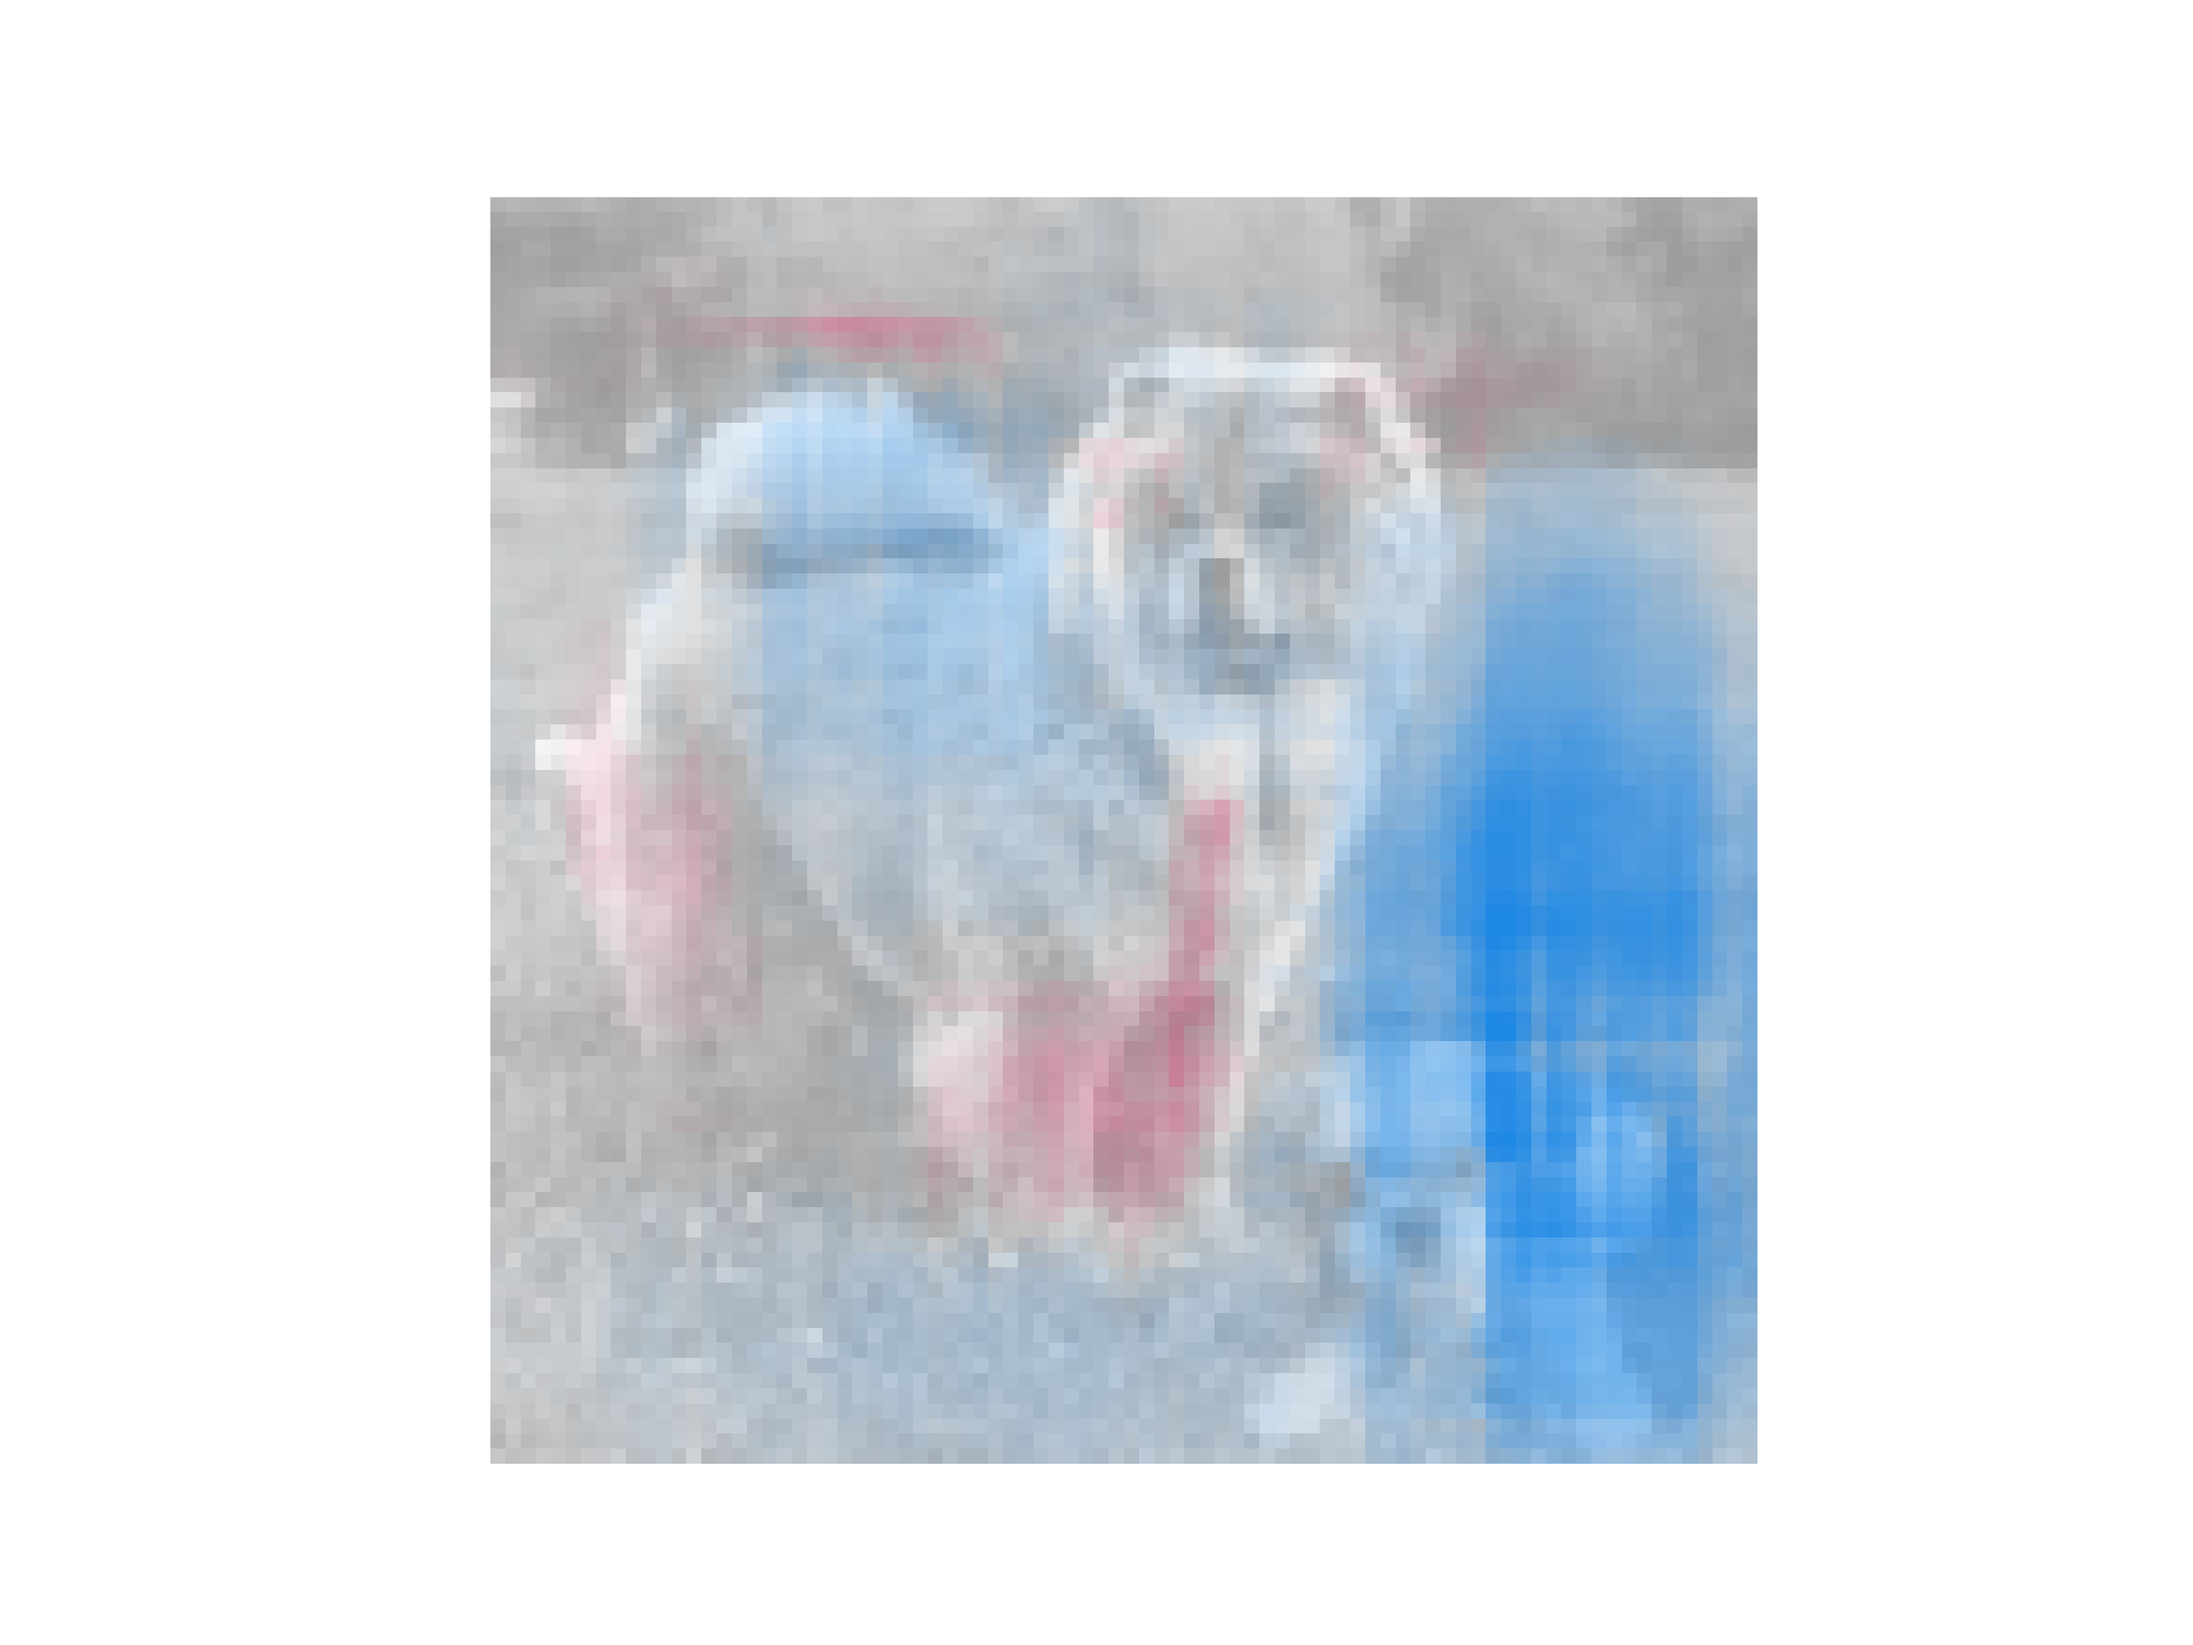
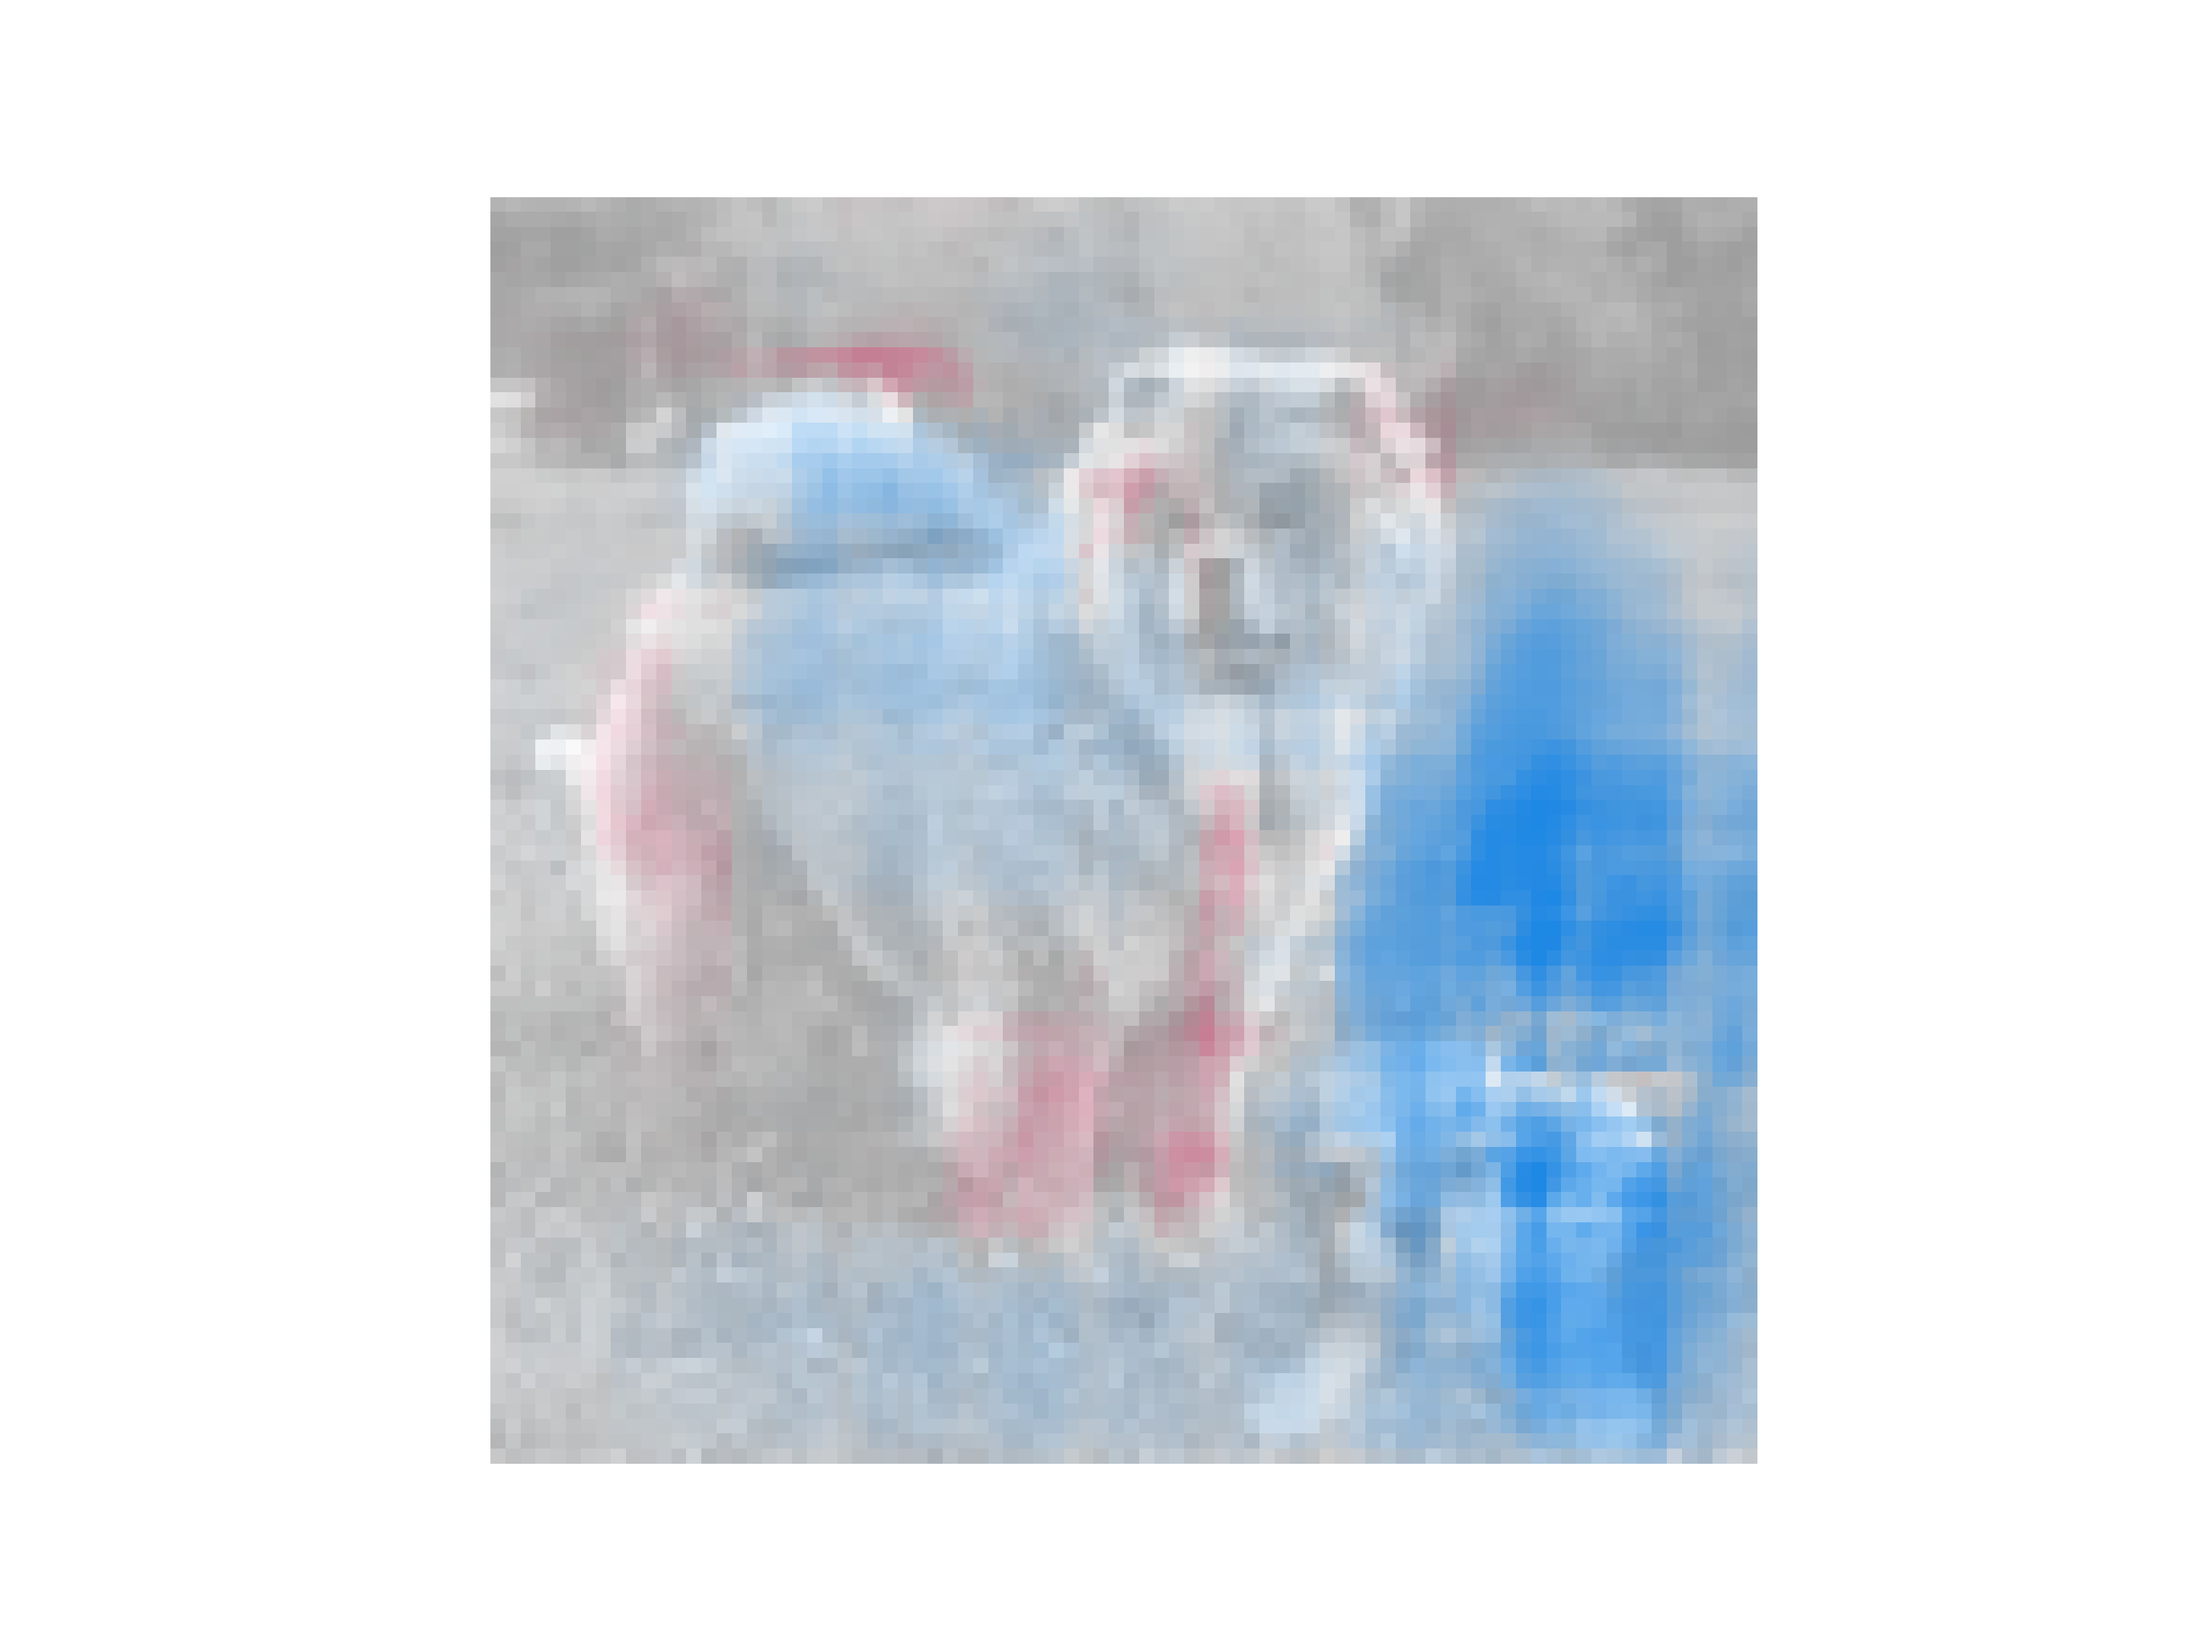
New supplementary materials.

diff --git a/testbed/ablation_study.py b/testbed/ablation_study.py
@@ -34,8 +34,8 @@ if __name__ == '__main__':
     ### This few-shot XAI framwork need you to specify shot number.
     shot = 1
     k = 10
-    padding_size = 6
-    dataset_str = 'dogs'
+    padding_size = 4
+    dataset_str = 'birds'
     ### In our experiments, we only focus on Conv64F and ResNet12 backbone.
     input_model_str = 'Conv64F'
     # input_model_str = 'ResNet12'

diff --git a/testbed/hyperparams_study.py b/testbed/hyperparams_study.py
@@ -33,7 +33,7 @@ if __name__ == '__main__':
 
     ## To carry our ablation study, specify 'shot' or 'padding_size' or 'k'
     hyperparams_type = 'padding_size'
-    dataset_str = 'dogs'
+    dataset_str = 'cars'
     ### In our experiments, we only focus on Conv64F and ResNet12 backbone.
     input_model_str = 'Conv64F'
     # input_model_str = 'ResNet12'
